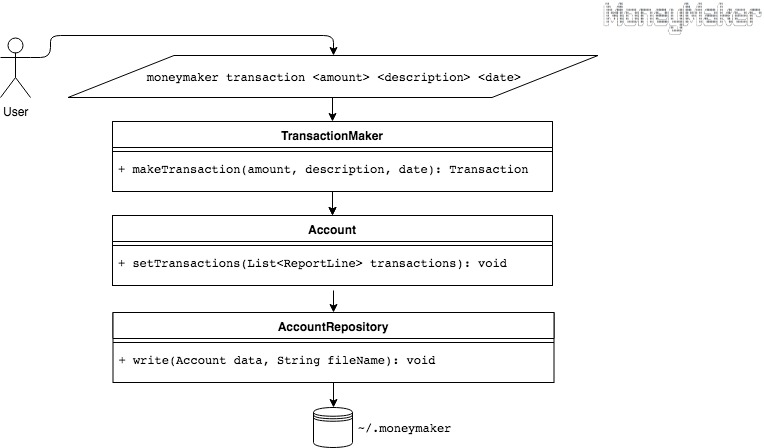
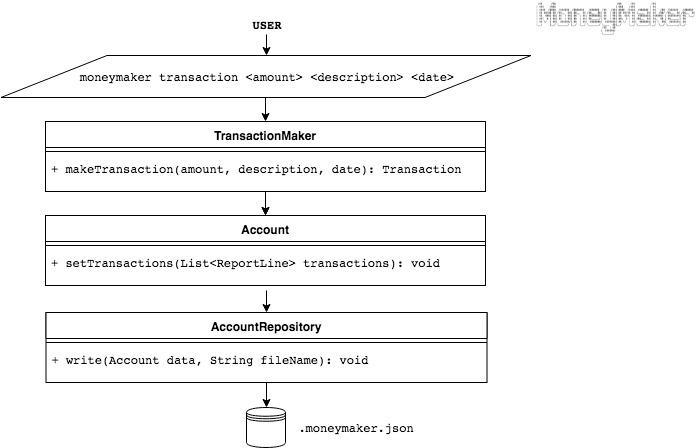
updated designs

diff --git a/design/engineering-design.md b/design/engineering-design.md
@@ -1,5 +1,7 @@
 # Engineering design
 
+Please see the accompanying [Product Design](product-design.md).
+
 This document seeks to convey how the commands flow through the code, and will highlight the public methods available.
 Additionally, the details of external resources will also be given.
 
@@ -8,20 +10,37 @@ Additionally, the details of external resources will also be given.
 - generate a `report` to view transactions
 
 #### An overview:
-The transactions are stored and retrieved to and from the user's folder on their local drive at the location `"~/.moneymaker"`. However, it is the filename that decides which account is being used to store transactions - therefor the system could (to be fulfilled on a future sprint) implement the possibility of allowing the user to choose the account, and view all historical transactions. At the moment, transactions can only be added to the file - there is no method of deleting transactions.  Furthermore, a report can be generated from these stored transactions for the user to view historic transactions and their balance. If no choice is made, or an erroneous choice is selected, then the application will print out a help file with the list of commands (to be implemented on a future sprint).
+The transactions are stored and retrieved in a JSON format to and from the user’s home directory on their local drive. However, it is the filename that decides which account is being used to store transactions - therefor the system could (out of scope for this design) implement the possibility of allowing the user to choose the account, and view all historical transactions. Furthermore, a report can be generated from these stored transactions for the user to view historic transactions and their balance. If no choice is made, or an erroneous choice is selected, then the application will print out a help file with the list of commands (out of scope for this design).
 
 ## User requesting `transaction`:
-When `Main` is called, it starts the `Application` class, where a choice may be made to create a `transaction`. When a transaction is made by an `amount`, the application will infer via the presence of a negative sign if it is a deposit or withdrawal The transaction may include a `time` (in ISO 8601 date format [YYYY-MM-DD]) and a `description`.
-The instances of the `Account` class can be read and written from and to the filesystem using the `read` and `write` methods respectively.
+When `Main` is called, it starts the `Application` class, where a choice may be made to create a `transaction`. When a transaction is made by an `amount`, the application will infer via the presence of a negative sign if it is a deposit or withdrawal. The transaction **must** include a `description` in quotation marks so as to parse this as the description and to infer the `date` component of the command. The command may finally include a `date` (in ISO 8601 date format [YYYY-MM-DD]) - but if this is not given then the application will automatically register the transaction as taking place on the day that the command was given.
+
+#### An example transaction:
+`moneymaker transaction 200 "New watch" 2018-09-26`
+Notice that this follows the command format `moneymaker transaction [<amount>][<description>][<date>]`, and that the description **must** be included and in quotation marks, and that the date **must** include the hyphenation in order to be parsed.
 
 A diagram that illustrates the logic flow when a user records a transaction is as follows:
 ![Moneymaker CD2 UML](mm-transaction.jpg "Moneymaker CD2 UML")
 
-
 ## User requesting `report`:
 
-If a `report` is called for, then the `ReportLine` class will combine the Transaction and Balance instances of all transactions and display these in a table. The balances will be calculated when the `Budget.report()` method is called, and all transactions, along with their respective balance will be embedded in a table format which will be output to the user. 
+The `report` command will display all historic transactions formatted in a table with headings.
 
 The diagram that displays the logic flow when the user requests a report is as follows:
 ![Moneymaker CD1 UML](mm-report.jpg "Moneymaker CD1 UML")
 
+## The file format of the stored transactions
+The JSON files are sored in the user’s home directory at the following locations: 
+- For MacOS and Linux: `~/.moneymaker.json` 
+- For Windows: `C:\Users\Home\.moneymaker.json`
+
+#### An example of a stored account will follow this structure:
+```JSON
+{
+"Date" : "2019/03/03",
+"TransactionType" : "CREDIT",
+"Amount": 100,
+"Balance": 200,
+"Description": "Got paid"
+}
+```

diff --git a/design/product-design.md b/design/product-design.md
@@ -1,5 +1,7 @@
 # Product design
 
+Please see the accompanying [Engineering Design](engineering-design.md).
+
 The budget calculator should have a way of adding transactions to an account.
 
 The following requests should be implemented:
@@ -10,7 +12,11 @@ The following requests should be implemented:
 | Check balance:       | `moneymaker report`                                    |
 | Help                 | `moneymaker help`                                      |
 
-If no arguments, or erroneous arguments are given to `moneymaker` then the application will display:
+Notes:
+- The amount can be positive and negative. 
+- A description **must** be included and surrounded by quotation marks.
+- the date **must** be given in the format `YYYY-MM-DD`
+- If no arguments, or erroneous arguments are given to `moneymaker` then the application will display:
 
 >Error: Invalid argument: 
 `moneymaker help` 
@@ -23,14 +29,14 @@ moneymaker help
 NAME:
     moneymaker -- a budget calculator.
 SYNOPSIS:
-    moneymaker [<amount>][<description>][<date>]
+    moneymaker [transaction] [<amount>]["<description>"][<date>]
     moneymaker [report]
     moneymaker [help]
 DESCRIPTION:
     moneymaker is able to take credit and debit transactions,
     and then display these as a report.
 OPTIONS:
-    credit [amount] [description] [date]
+    transaction [<amount>]["<description>"][<date>]
         To add credit you must add a description.
         If no date is provided then the current date will be used.
     report
@@ -38,9 +44,9 @@ OPTIONS:
     help
         This documentation.
 EXAMPLES:
-    moneymaker 125 "Got paid" 2018-01-01
-    moneymaker 125 "Got paid" 2018-01-01
-    moneymaker -72 "Paid bill"
+    moneymaker transaction 125 "Got paid" 2018-01-01
+    moneymaker transaction 125 "Got paid" 2018-01-01
+    moneymaker transaction -72 "Paid bill"
     moneymaker report
 
     *** Output ***

diff --git a/README.md b/README.md
@@ -101,3 +101,9 @@ The budget calculator should:
     ```
 1. Design a way of adding transactions to an account. This should be put under a `design/` directory in the root of your repository, and comprise markdown files. (2)
 
+### Backlog:
+1. Display credit/debit amounts and balance in a GBP currency format as per ISO 4217.
+Example: £1,234,567.89 GBP
+1. Need to update README.md: Classes in use.
+1. Include the concept of Users, each with their own Id and Account.
+1. Windows home directory
